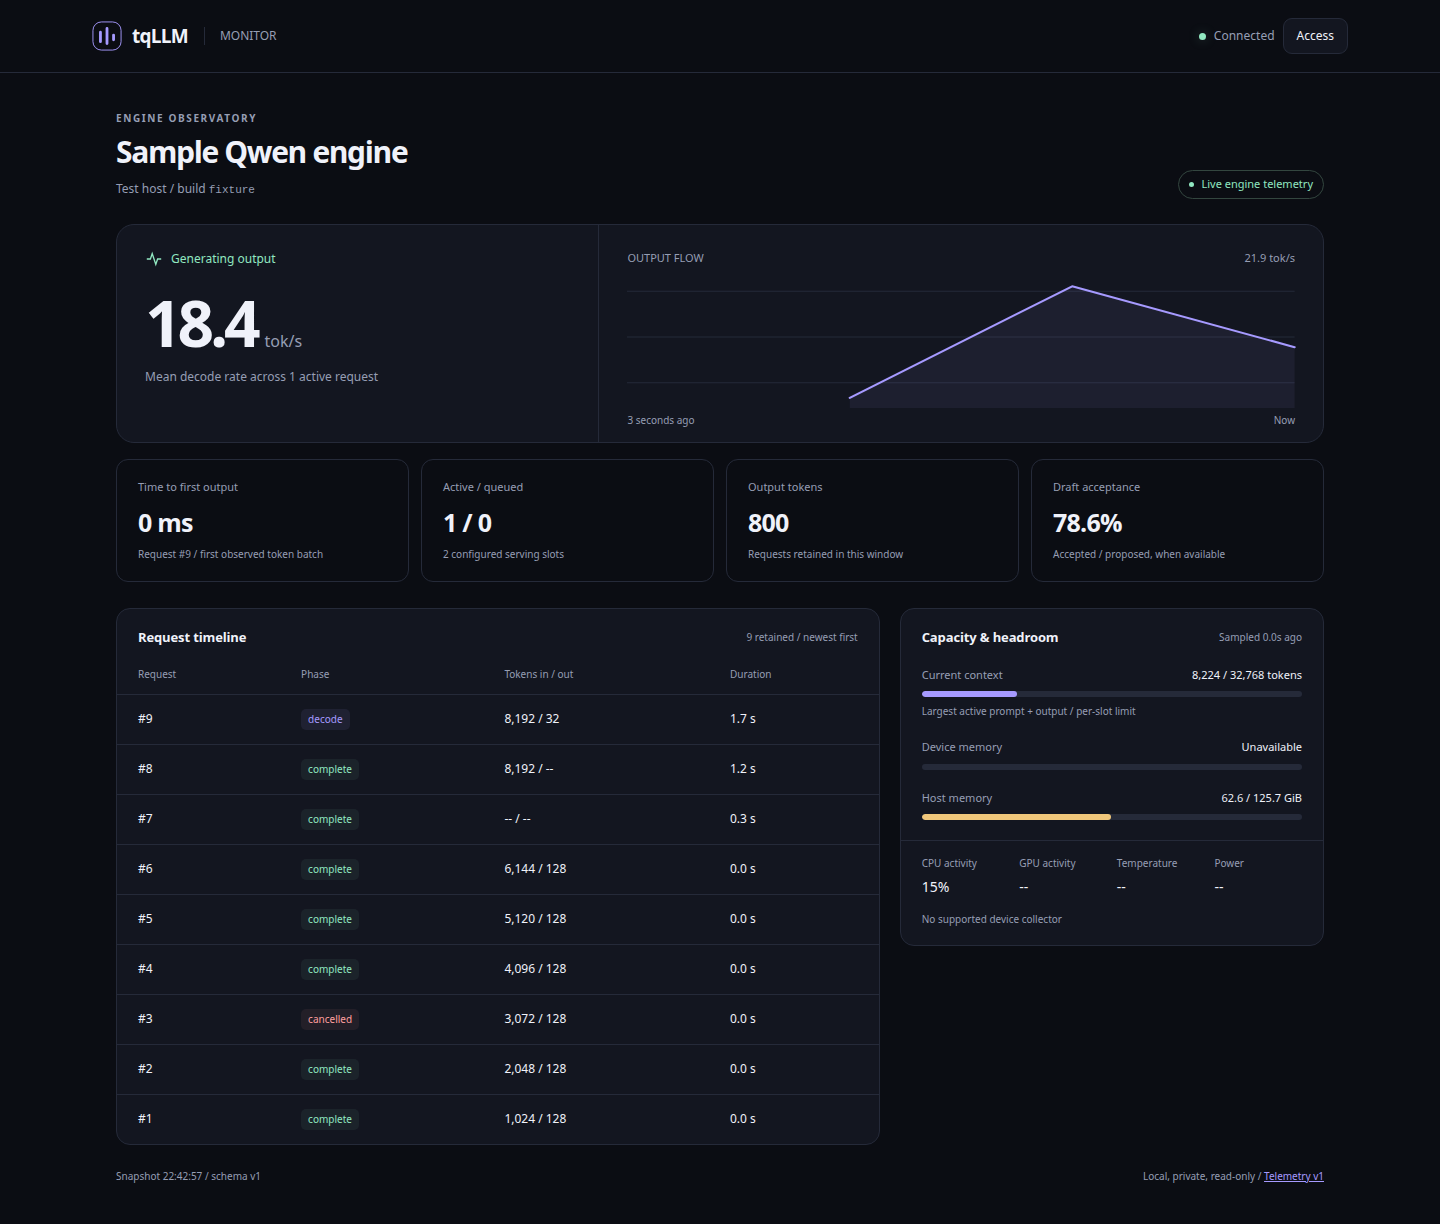
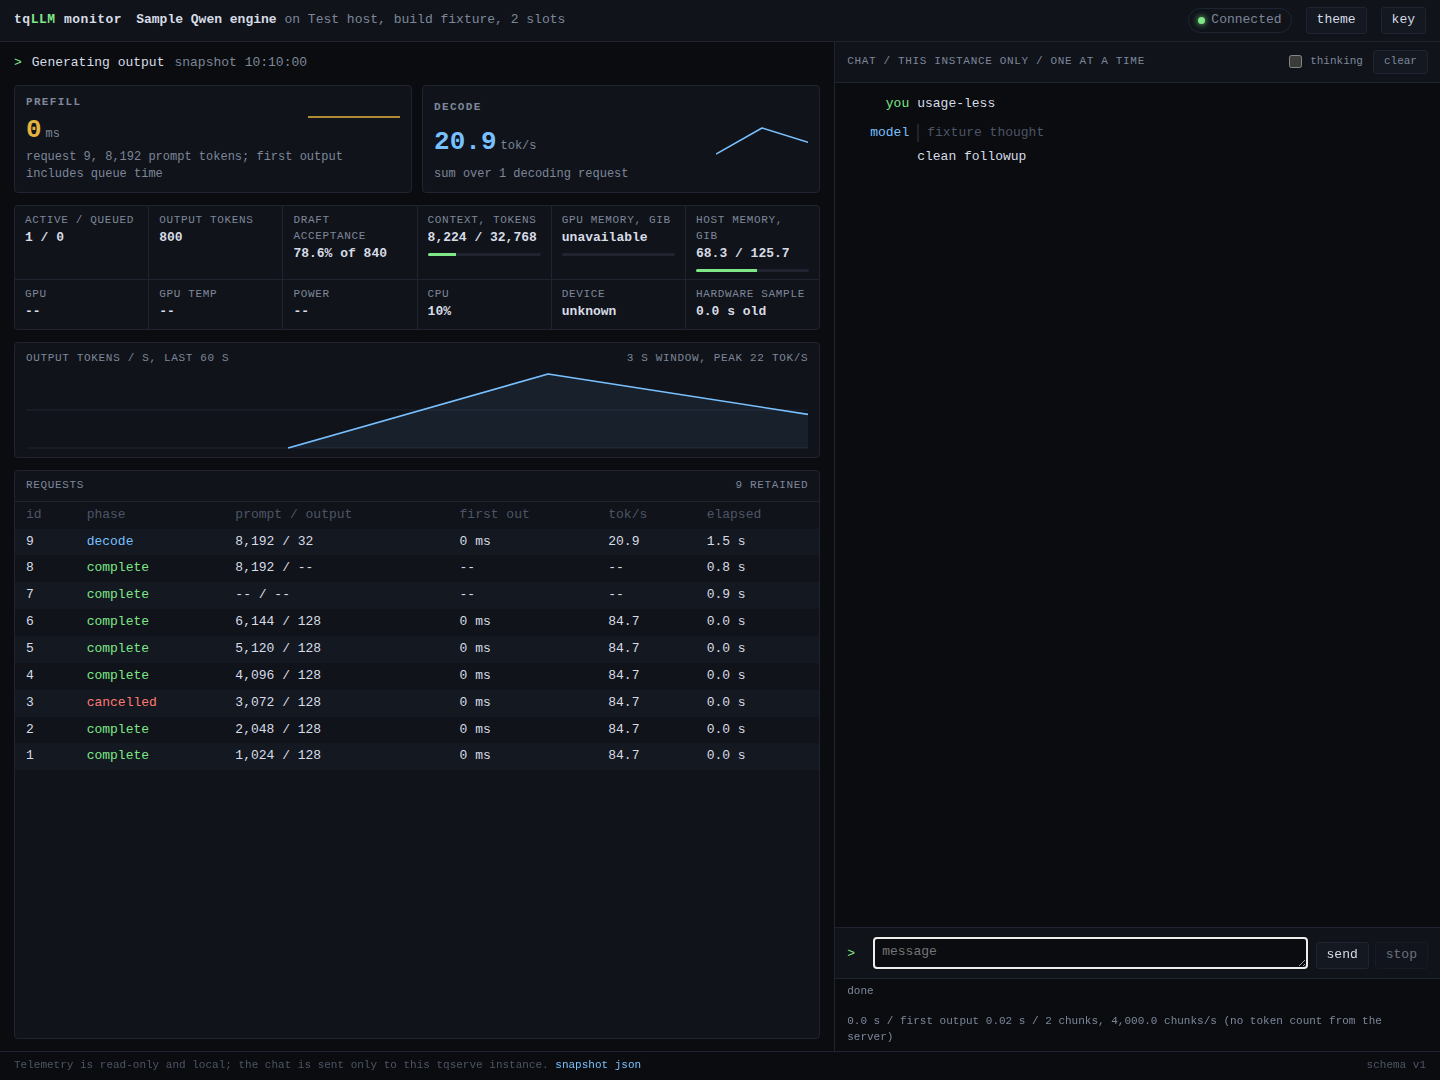
serve: integrate monitor UI with accurate metrics and chat cancellation

diff --git a/tools/serve/monitor.html b/tools/serve/monitor.html
@@ -201,7 +201,7 @@ function render(data) {
   spark('prefillLine', firstHistory.map(h => h.ms), 92, 30);
   if (latest && typeof latest.first_output_ms === 'number') { $('first').textContent = ''; $('first').append(number(latest.first_output_ms >= 10000 ? latest.first_output_ms / 1000 : latest.first_output_ms, latest.first_output_ms >= 10000 ? 1 : 0), Object.assign(document.createElement('small'), {textContent: latest.first_output_ms >= 10000 ? 's' : 'ms'})); }
   else text('first', '--');
-  text('firstNote', latest ? 'request ' + latest.id + ', ' + number(latest.prompt_tokens) + ' prompt tokens' + (typeof latest.first_output_ms === 'number' && latest.first_output_ms >= 1 && latest.prompt_tokens ? ', ' + number(latest.prompt_tokens / (latest.first_output_ms / 1000), 0) + ' prompt tok/s' : '') : 'time to first output, latest request');
+  text('firstNote', latest ? 'request ' + latest.id + ', ' + number(latest.prompt_tokens) + ' prompt tokens; first output includes queue time' : 'time to first output, latest request');
   text('queue', active.filter(r => r.phase !== 'queued').length + ' / ' + active.filter(r => r.phase === 'queued').length);
   text('tokens', number(total));
   const drafted = rows.reduce((n, r) => n + (r.drafted || 0), 0), accepted = rows.reduce((n, r) => n + (r.accepted || 0), 0);
@@ -213,8 +213,8 @@ function render(data) {
       typeof r.decode_tokens_per_second === 'number' ? number(r.decode_tokens_per_second, 1) : '--', number(r.elapsed_ms / 1000, 1) + ' s'];
     cells.forEach((value, i) => {
       const td = document.createElement('td'); td.textContent = value; if (i === 1) td.className = 'phase-' + r.phase;
-      if (i === 2 && r.phase === 'prefill' && r.prompt_tokens > 0 && typeof r.context_tokens === 'number') {  // prompt tokens already processed
-        const bar = document.createElement('span'); bar.className = 'progress'; const fill = document.createElement('b'); fill.style.width = (Math.min(1, r.context_tokens / r.prompt_tokens) * 100).toFixed(1) + '%'; bar.append(fill); td.append(bar);
+      if (i === 2 && r.phase === 'prefill' && data.capabilities?.prefill_progress === true && r.prompt_tokens > 0 && typeof r.prefill_processed_tokens === 'number') {
+        const bar = document.createElement('span'); bar.className = 'progress'; const fill = document.createElement('b'); fill.style.width = (Math.min(1, r.prefill_processed_tokens / r.prompt_tokens) * 100).toFixed(1) + '%'; bar.append(fill); td.append(bar);
       }
       tr.append(td);
     });
@@ -261,7 +261,7 @@ setInterval(() => { if (lastSuccess !== null && performance.now() - lastSuccess 
 
 // chat: one streaming completion at a time against this instance's bridge, same key, text rendered as text only
 const history = [];
-let controller = null;
+let controller = null, chatGeneration = 0;
 function line(role, who) {
   const msg = document.createElement('div'); msg.className = 'msg ' + role;
   const w = document.createElement('span'); w.className = 'who'; w.textContent = who;
@@ -273,15 +273,16 @@ function line(role, who) {
 function chatBusy(on) { $('chatSend').disabled = on; $('chatStop').disabled = !on; $('chatInput').disabled = on; }
 function chatScroll() { const t = $('transcript'); t.scrollTop = t.scrollHeight; }
 async function send(prompt) {
-  if (!key) { notice('Enter the server key first (key button, top right); the chat uses the same Bearer key as the telemetry.'); $('auth').hidden = false; $('apiKey').focus(); return; }
+  if (!key && document.body.dataset.connection === 'auth') { notice('Enter the server key first (key button, top right); the chat uses the same Bearer key as the telemetry.'); $('auth').hidden = false; $('apiKey').focus(); return; }
+  const revision = chatGeneration, checkpoint = history.length;
   history.push({role: 'user', content: prompt}); line('you', 'you').textContent = prompt;
   const pre = line('model', 'model'), msg = pre.closest('.msg'), thought = msg.querySelector('.thought'); msg.classList.add('streaming'); chatScroll();
   controller = new AbortController(); chatBusy(true); text('chatStatus', 'waiting for the first token'); text('chatStats', '');
-  const started = performance.now(); let first = null, pieces = 0, reply = '', thinking = '', usage = null, timings = null, done = false;
+  const started = performance.now(); let first = null, pieces = 0, reply = '', thinking = '', usage = null, timings = null, done = false, failed = false;
   const live = setInterval(() => { if (first !== null) text('chatStats', number((performance.now() - started) / 1000, 1) + ' s / ' + number(pieces / ((performance.now() - first) / 1000), 1) + ' chunks/s'); }, 500);
   try {
     const response = await fetch('/api/monitor/v1/chat/completions', {method: 'POST', signal: controller.signal, cache: 'no-store',
-      headers: {Authorization: 'Bearer ' + key, 'Content-Type': 'application/json'},
+      headers: {...(key ? {Authorization: 'Bearer ' + key} : {}), 'Content-Type': 'application/json'},
       body: JSON.stringify(Object.assign({messages: history, stream: true}, $('chatThink').checked ? {} : {chat_template_kwargs: {enable_thinking: false}}))});
     if (response.status === 401 || response.status === 403) throw new Error('the server rejected the key');
     if (response.status === 409 || response.status === 429) throw new Error('another chat is already running on this monitor');
@@ -295,34 +296,41 @@ async function send(prompt) {
         if (!raw.startsWith('data:')) continue;
         const payload = raw.slice(5).trim(); if (payload === '[DONE]') { done = true; continue; }
         let chunk; try { chunk = JSON.parse(payload); } catch (e) { continue; }
+        if (chunk.error) throw new Error(typeof chunk.error === 'string' ? chunk.error : chunk.error.message || 'inference failed');
         if (chunk.usage) usage = chunk.usage; if (chunk.timings) timings = chunk.timings;
         const reasoning = chunk.choices?.[0]?.delta?.reasoning_content;
-        if (reasoning) { if (first === null) { first = performance.now(); text('chatStatus', 'thinking'); } pieces++; thinking += reasoning; thought.textContent = thinking; chatScroll(); }
+        if (reasoning) { if (first === null) { first = performance.now(); text('chatStatus', 'thinking'); } thinking += reasoning; thought.textContent = thinking; chatScroll(); }
         const delta = chunk.choices?.[0]?.delta?.content ?? chunk.choices?.[0]?.text ?? '';
-        if (delta) { if (first === null) { first = performance.now(); text('chatStatus', 'streaming'); } pieces++; reply += delta; pre.textContent = reply; chatScroll(); }
+        if (reasoning || delta) pieces++;
+        if (delta) { if (first === null) { first = performance.now(); text('chatStatus', 'streaming'); } reply += delta; pre.textContent = reply; chatScroll(); }
         if (chunk.choices?.[0]?.finish_reason) done = true;
       }
     }
-    text('chatStatus', done ? 'done' : 'stream ended without a finish marker');
+    if (revision === chatGeneration) text('chatStatus', done ? 'done' : 'stream ended without a finish marker');
   } catch (error) {
-    text('chatStatus', controller.signal.aborted ? 'stopped' : 'failed: ' + (error && error.message ? error.message : 'request failed'));
+    failed = true;
+    if (revision === chatGeneration) text('chatStatus', controller.signal.aborted ? 'stopped' : 'failed: ' + (error && error.message ? error.message : 'request failed'));
     if (!controller.signal.aborted) msg.classList.replace('model', 'sys');
   } finally {
     const elapsed = (performance.now() - started) / 1000, gen = first === null ? 0 : (performance.now() - first) / 1000;
     const parts = [number(elapsed, 1) + ' s'];
-    if (first !== null) parts.push('first token ' + number((first - started) / 1000, 2) + ' s');
-    if (usage && typeof usage.completion_tokens === 'number') parts.push(number(usage.completion_tokens) + ' tokens' + (gen > 0 ? ', ' + number(usage.completion_tokens / gen, 1) + ' tok/s' : ''));
-    else if (timings && typeof timings.predicted_per_second === 'number') parts.push(number(timings.predicted_per_second, 1) + ' tok/s (server)');
+    if (first !== null) parts.push('first output ' + number((first - started) / 1000, 2) + ' s');
+    if (timings && Number.isFinite(timings.predicted_per_second)) parts.push(number(timings.predicted_per_second, 1) + ' tok/s (server)');
+    if (usage && Number.isFinite(usage.completion_tokens)) parts.push(number(usage.completion_tokens) + ' tokens');
     else if (pieces) parts.push(pieces + ' chunks' + (gen > 0 ? ', ' + number(pieces / gen, 1) + ' chunks/s' : '') + ' (no token count from the server)');
-    clearInterval(live); text('chatStats', parts.join(' / ')); msg.classList.remove('streaming');
-    if (reply) history.push({role: 'assistant', content: reply}); else history.pop();
+    clearInterval(live); if (revision === chatGeneration) text('chatStats', parts.join(' / ')); msg.classList.remove('streaming');
+    if (revision === chatGeneration) {
+      if (done && reply && !failed && !controller.signal.aborted) history.push({role: 'assistant', content: reply});
+      else history.splice(checkpoint);
+    }
     controller = null; chatBusy(false); $('chatInput').focus();
   }
 }
 $('compose').addEventListener('submit', event => { event.preventDefault(); const value = $('chatInput').value.trim(); if (!value || controller) return; $('chatInput').value = ''; send(value); });
 $('chatInput').addEventListener('keydown', event => { if (event.key === 'Enter' && !event.shiftKey) { event.preventDefault(); $('compose').requestSubmit(); } if (event.key === 'Escape' && controller) controller.abort(); });
+document.addEventListener('keydown', event => { if (event.key === 'Escape' && controller) controller.abort(); });
 $('chatStop').addEventListener('click', () => { if (controller) controller.abort(); });
-$('chatClear').addEventListener('click', () => { if (controller) controller.abort(); history.length = 0; $('transcript').replaceChildren(Object.assign(document.createElement('div'), {className: 'hint', id: 'chatHint', textContent: 'Transcript cleared.'})); text('chatStatus', 'idle'); text('chatStats', ''); });
+$('chatClear').addEventListener('click', () => { chatGeneration++; if (controller) controller.abort(); history.length = 0; $('transcript').replaceChildren(Object.assign(document.createElement('div'), {className: 'hint', id: 'chatHint', textContent: 'Transcript cleared.'})); text('chatStatus', 'idle'); text('chatStats', ''); });
 poll();
 </script>
 </body></html>

diff --git a/tests/test_monitor_ui.py b/tests/test_monitor_ui.py
@@ -18,8 +18,33 @@ class InferenceFixture(BaseHTTPRequestHandler):
     def do_POST(self):
         body = json.loads(self.rfile.read(int(self.headers['Content-Length'])))
         assert self.path == '/v1/chat/completions'
-        assert self.headers.get('Authorization') == 'Bearer browser-test-key'
-        assert body['messages'][0]['content'] in ('browser transport gate', 'slow transport gate')
+        assert self.headers.get('Authorization') == ('Bearer ' + self.server.key if self.server.key else None)
+        self.server.requests.append(body)
+        prompt = body['messages'][-1]['content']
+        if prompt in ('hello monitor', 'after clear', 'slow terminal', 'usage-less'):
+            self.send_response(200)
+            self.send_header('Content-Type', 'text/event-stream')
+            self.end_headers()
+            def emit(value):
+                data=('data: '+json.dumps(value,ensure_ascii=False)+'\n\n').encode()
+                # Deliberately split SSE lines and UTF-8 across network writes.
+                split = data.find(b'\xc3') + 1 if b'\xc3' in data else 9
+                for part in [data[:split],data[split:-1],data[-1:]]:
+                    self.wfile.write(part);self.wfile.flush()
+            try:
+                emit({'choices':[{'delta':{'reasoning_content':'fixture thought'}}]})
+                emit({'choices':[{'delta':{'content':'<b>safe text</b> cafe\u00e9' if prompt=='hello monitor' else 'partial' if prompt=='slow terminal' else 'clean followup'}}]})
+                if prompt=='slow terminal':
+                    for _ in range(50):
+                        time.sleep(.1);emit({'choices':[{'delta':{'content':' more'}}]})
+                final={'choices':[{'delta':{},'finish_reason':'stop'}]}
+                if prompt!='usage-less':
+                    final.update(usage={'prompt_tokens':20,'completion_tokens':8},timings={'predicted_per_second':123.4})
+                emit(final);self.wfile.write(b'data: [DONE]\n\n');self.wfile.flush()
+            except (BrokenPipeError,ConnectionResetError):
+                self.server.cancelled.set()
+            self.close_connection=True
+            return
         answer = b'data: {"choices":[{"delta":{"content":"fixture response"}}]}\n\ndata: [DONE]\n\n'
         self.send_response(200)
         self.send_header('Content-Type', 'text/event-stream')
@@ -55,6 +80,8 @@ def main():
             mode.write_text('queued')
             upstream = ThreadingHTTPServer(('127.0.0.1', 0), InferenceFixture)
             upstream.cancelled = threading.Event()
+            upstream.requests = []
+            upstream.key = 'browser-test-key'
             upstream_thread = threading.Thread(target=upstream.serve_forever, daemon=True)
             upstream_thread.start()
             server = subprocess.Popen([str(args.binary.resolve()), '--fixture', str(mode), 'browser-test-key', str(upstream.server_port)], stdout=subprocess.PIPE, stderr=subprocess.PIPE, text=True)
@@ -92,8 +119,45 @@ def main():
                 assert cancelled and upstream.cancelled.wait(3), 'Abort did not close upstream chat'
 
 
+                page.locator('#chatInput').fill('hello monitor')
+                page.locator('#chatSend').click()
+                expect(page.locator('#chatStatus')).to_have_text('done')
+                expect(page.locator('.msg.model pre:not(.thought)')).to_have_text('<b>safe text</b> cafe\u00e9')
+                assert page.locator('.msg.model b').count() == 0, 'chat rendered model HTML'
+                assert upstream.requests[-1]['chat_template_kwargs']['enable_thinking'] is False
+                expect(page.locator('#chatStats')).to_contain_text('123.4 tok/s (server)')
+                page.locator('#themeButton').click()
+                assert page.evaluate('document.documentElement.dataset.theme') == 'light'
+                page.locator('#themeButton').click()
+                page.locator('#chatClear').click()
+                page.locator('#chatInput').fill('slow terminal')
+                page.locator('#chatSend').click()
+                expect(page.locator('.msg.model pre:not(.thought)')).to_contain_text('partial')
+                page.locator('#chatClear').click()
+                expect(page.locator('#chatSend')).to_be_enabled()
+                page.locator('#chatInput').fill('after clear')
+                page.locator('#chatSend').click()
+                expect(page.locator('#chatStatus')).to_have_text('done')
+                assert upstream.requests[-1]['messages'] == [{'role':'user','content':'after clear'}], 'cleared reply leaked into next conversation'
+                page.locator('#chatClear').click()
+                page.locator('#chatInput').fill('slow terminal')
+                page.locator('#chatSend').click()
+                expect(page.locator('.msg.model pre:not(.thought)')).to_contain_text('partial')
+                page.keyboard.press('Escape')
+                expect(page.locator('#chatStatus')).to_have_text('stopped')
+                expect(page.locator('#chatSend')).to_be_enabled()
+                page.locator('#chatClear').click()
+                page.locator('#chatInput').fill('usage-less')
+                page.locator('#chatSend').click()
+                expect(page.locator('#chatStatus')).to_have_text('done')
+                expect(page.locator('#chatStats')).to_contain_text('chunks')
+                expect(page.locator('#chatStats')).to_contain_text('no token count')
+                assert page.evaluate('localStorage.length + sessionStorage.length') == 0
+
                 mode.write_text('prefill')
                 expect(page.locator('#phase')).to_have_text('Prefilling prompt')
+                assert page.locator('#requests .progress').count() == 0, 'context allocation is not measured prefill progress'
+                assert 'prompt tok/s' not in page.locator('#firstNote').inner_text()
                 expect(page.locator('#speed')).to_have_text('--')
                 expect(page.locator('#context')).to_contain_text('8,192')
                 mode.write_text('decode')
@@ -118,6 +182,20 @@ def main():
                 expect(page.locator('#notice')).to_be_visible()
                 assert not errors, errors
                 results.append({'browser': browser_name, 'passed': True, 'api_mocked': False, 'fixture': True, 'page_errors': errors})
+                # A server without --api-key must not demand a made-up key in chat.
+                upstream.key = ''
+                no_key = subprocess.Popen([str(args.binary.resolve()), '--fixture', str(mode), '', str(upstream.server_port)], stdout=subprocess.PIPE, stderr=subprocess.PIPE, text=True)
+                try:
+                    free_port = int(no_key.stdout.readline().strip())
+                    open_page = browser.new_page()
+                    open_page.goto(f'http://127.0.0.1:{free_port}/')
+                    expect(open_page.locator('#connection')).to_have_text('Connected')
+                    open_page.locator('#chatInput').fill('usage-less')
+                    open_page.locator('#chatSend').click()
+                    expect(open_page.locator('#chatStatus')).to_have_text('done')
+                    open_page.close()
+                finally:
+                    no_key.terminate(); no_key.wait(timeout=5)
                 browser.close()
             finally:
                 if server.poll() is None:

diff --git a/tools/serve/monitor_server.hpp b/tools/serve/monitor_server.hpp
@@ -14,7 +14,7 @@
 
 namespace tqserve {
 #if defined(__linux__)
-// An independent, bounded read-only listener; no inference calls or engine locks.
+// Independent telemetry listener and bounded same-instance chat bridge; no engine locks.
 class MonitorServer {
 public:
     MonitorServer(Monitor & monitor, const std::string & host, uint16_t port,
@@ -131,12 +131,17 @@ private:
             const auto deadline = std::chrono::steady_clock::now() + std::chrono::minutes(10);
             char buffer[8192];
             while (!stop_ && std::chrono::steady_clock::now() < deadline) {
-                pollfd downstream{client, POLLIN, 0};
-                if (::poll(&downstream, 1, 0) > 0) {
+                pollfd ready[2]{{client, POLLIN, 0}, {upstream, POLLIN, 0}};
+                const auto available = ::poll(ready, 2, 200);
+                if (available < 0) { if (errno == EINTR) continue; break; }
+                if (!available) continue;
+                if (ready[0].revents) {
                     char probe;
-                    if (downstream.revents & (POLLHUP | POLLERR | POLLNVAL)) break;
-                    if ((downstream.revents & POLLIN) && ::recv(client, &probe, 1, MSG_PEEK | MSG_DONTWAIT) == 0) break;
+                    if (ready[0].revents & (POLLHUP | POLLERR | POLLNVAL)) break;
+                    if ((ready[0].revents & POLLIN) && ::recv(client, &probe, 1, MSG_PEEK | MSG_DONTWAIT) == 0) break;
                 }
+                if (ready[1].revents & (POLLERR | POLLNVAL)) break;
+                if (!(ready[1].revents & (POLLIN | POLLHUP))) continue;
                 const auto n = ::recv(upstream, buffer, sizeof(buffer), 0);
                 if (n == 0) break;
                 if (n < 0) { if (errno == EAGAIN || errno == EWOULDBLOCK || errno == EINTR) continue; break; }

diff --git a/tests/monitor.cpp b/tests/monitor.cpp
@@ -145,7 +145,7 @@ int main(int argc, char ** argv) {
         chat_proxy_gate();
         tqserve::MonitorServer server(m, "127.0.0.1", 0, "test-key");
         const auto html = get(server.port(), "/");
-        check(html.find("200 OK") != std::string::npos && html.find("Engine observatory") != std::string::npos, "embedded page");
+        check(html.find("200 OK") != std::string::npos && html.find("id=\"chatInput\"") != std::string::npos && html.find("id=\"chartLine\"") != std::string::npos, "embedded page");
         check(get(server.port(), "/api/monitor/v1/snapshot").find("401 Unauthorized") != std::string::npos, "auth enforced");
         const auto before = std::chrono::steady_clock::now();
         auto long_prefill = m.begin(); long_prefill->prefill(32768);

diff --git a/docs/MONITOR.md b/docs/MONITOR.md
@@ -77,7 +77,7 @@ The chart uses deltas of observed IDs between snapshots, not SSE chunk counts.
 Its history is local to this browser page, up to 60 seconds. Engine restarts and
 completed-history eviction produce a gap rather than a throughput spike.
 Snapshots retain at most 32 completed requests and all currently active ones;
-the dashboard shows the newest 12. Output/draft totals describe this retained
+the dashboard shows the newest 14. Output/draft totals describe this retained
 window, not all-time totals.
 
 Linux CPU activity and host memory come from `/proc`. Device utilization,
@@ -122,3 +122,26 @@ API mocks: authentication, live/idle/prefill/error states, storage hygiene,
 mobile overflow and disconnect clearing on Chromium, Firefox and WebKit.
 Real-model sampling, scheduling and output-parity checks remain part of the
 engine release gate; a fixture screenshot is not such a gate.
+
+## Terminal chat
+
+The right-hand pane streams from this instance through the existing same-origin
+bridge. Thinking is off by default; its toggle changes the chat template option.
+Enter sends, Shift+Enter inserts a line, and Stop/Escape cancel. Clear discards
+transcript and context, including any response still in flight. Interrupted or
+failed responses are not silently reused as completed conversation history.
+
+Text and reasoning are rendered as text, without executing model HTML. The
+server key remains in tab memory and is omitted when the server requires no key.
+Theme changes also remain in memory. No terminal commands are executed.
+
+Chat token counts and throughput are shown only when reported by the server;
+otherwise the footer labels events as chunks. Time to first output includes
+queue time, so it is not used to invent prefill throughput. Allocated context is
+not prefill progress; the progress bar requires an explicit processed-token
+counter and capability from the backend.
+
+The browser gate submits through the actual chat UI and C++ listener, including
+fragmented SSE/UTF-8, reported timings, unknown token counts, abort/Escape,
+Clear-follow-up isolation, authentication and keyless servers. No model or GPU
+job is needed for this transport gate.

diff --git a/README.md b/README.md
@@ -93,8 +93,9 @@ curl http://localhost:8086/v1/chat/completions \
 
 ## Runtime monitor
 
-A built-in, read-only dashboard for live token flow, request phases, context and
-host/device headroom. It stays responsive while single-slot inference is busy.
+Live token flow, request phases, context and host/device headroom beside a
+terminal-style chat with the model on this instance. Read-only telemetry stays
+responsive while single-slot inference is busy; chat supports Stop and Escape.
 Build from source, add `--monitor-port 8087`, then open `http://localhost:8087/`.
 See [setup, telemetry semantics and limits](docs/MONITOR.md).
 
